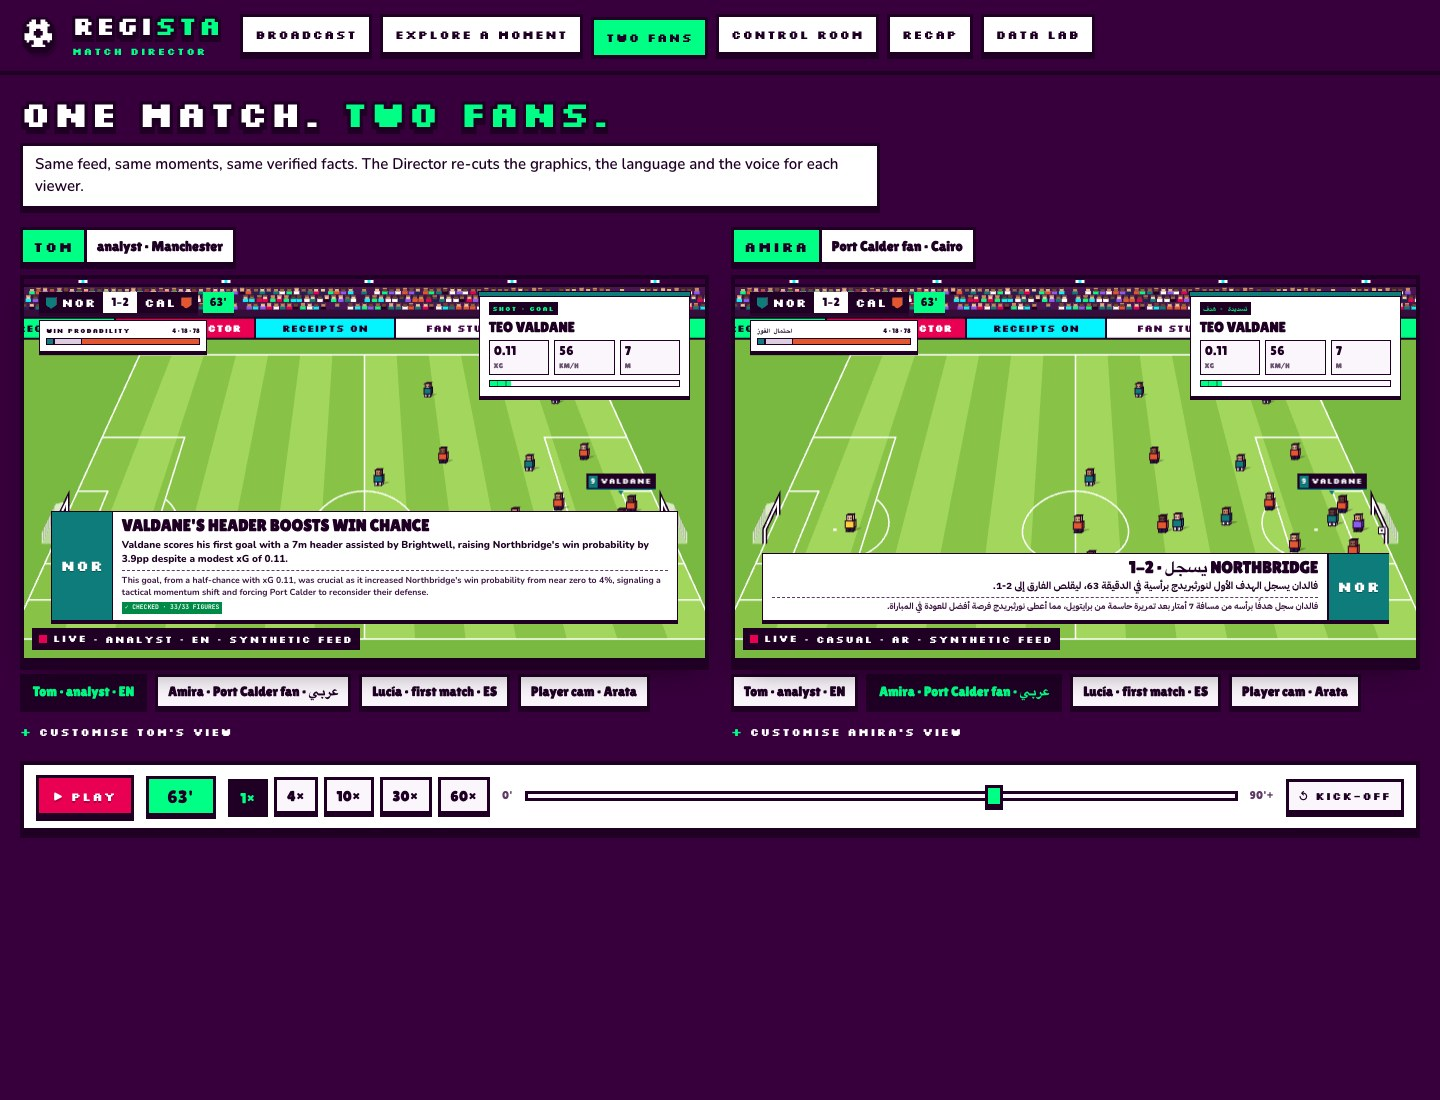
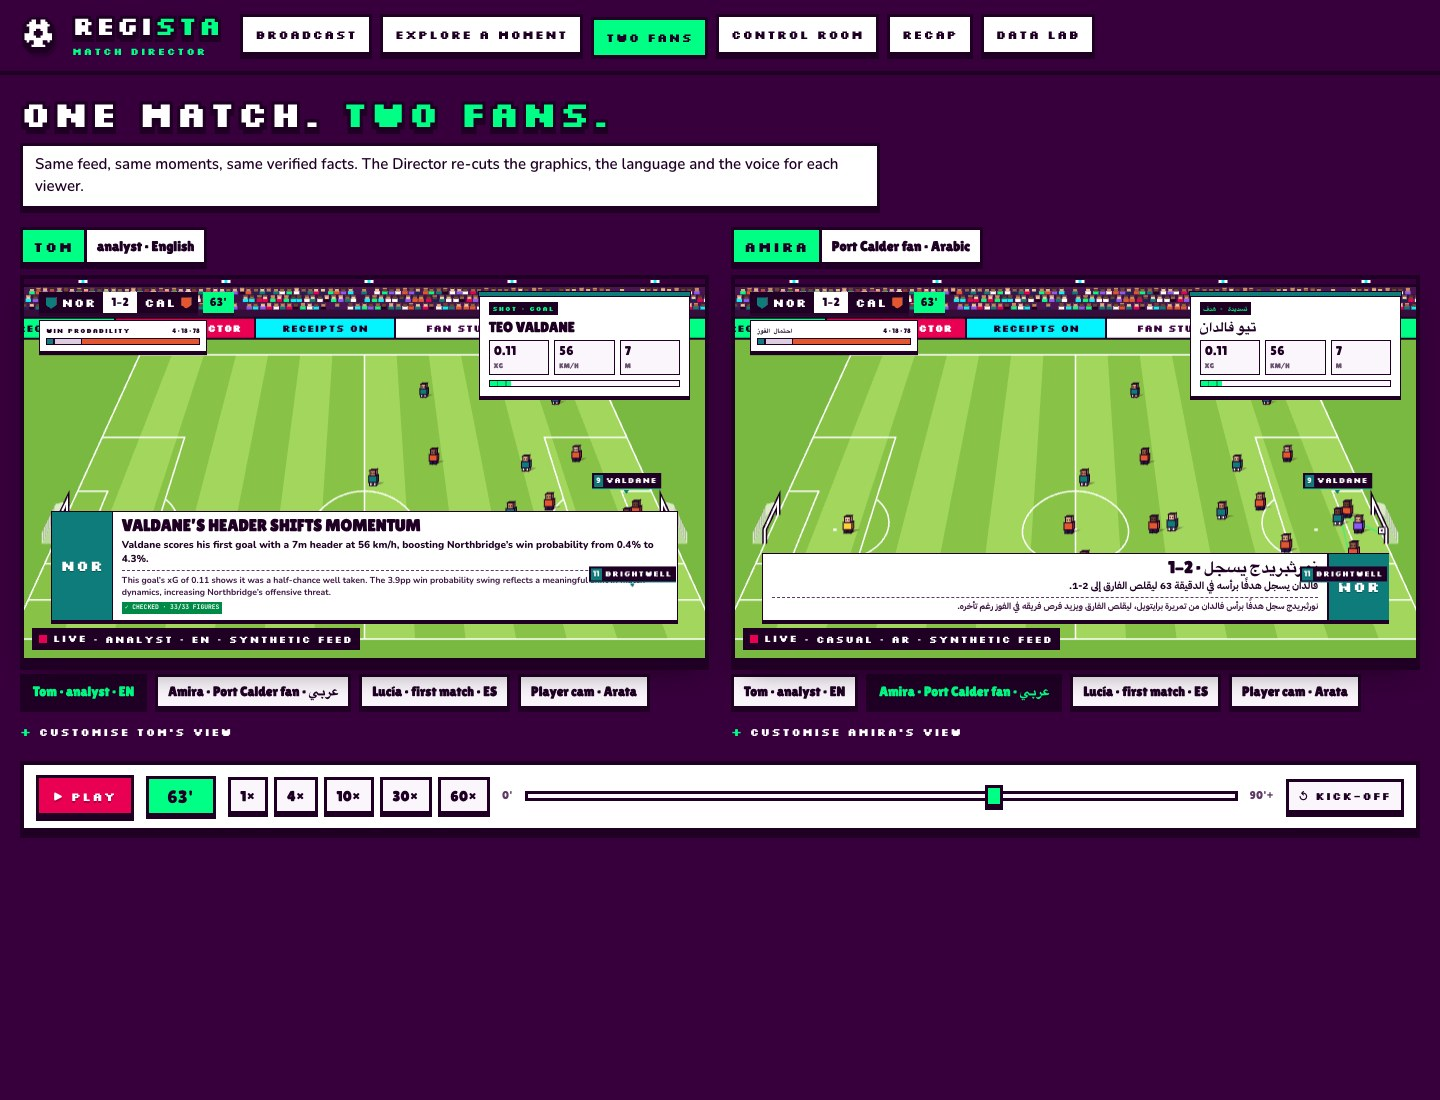
Screenshots and cover re-taken from the live site (23 Oct, revision 0000018); capture notes match
All ten docs/img screenshots and docs/media/cover.png come from the live build of bfcb014: the 63' goal with official
Arabic names, the labelled Arabic drill (rejected draft 1, passing draft 2), Two fans, the Arabic overlay, the control
room, the recap as of 63' and the data lab. The capture manifest, README and project page now say so.

diff --git a/README.md b/README.md
@@ -28,7 +28,7 @@ It is built on **Microsoft Agent Framework** (agents + workflow), runs models on
 | ![A correction receipt](docs/img/correction-receipt.jpg) | ![Amira's overlay export](docs/img/overlay-amira.jpg) |
 | **Correction receipt**: in a labelled drill a wrong goal count planted in the Arabic draft is rejected with the Verifier's exact findings and never airs; only Arabic is rewritten | **Overlay export**: Amira's Arabic browser overlay, right to left, from the Control room's export links; external switcher use requires validation |
 
-The screenshots were refreshed on 22 October from the corrected local build with Microsoft Foundry and synthetic data. [Capture provenance](docs/img/capture-manifest.json) records the displayed goal, model sources and actual correction verdicts. Publishing this build and recording the required video remain release tasks.
+The screenshots were captured on 23 October from the live site (Microsoft Foundry, synthetic data). [Capture provenance](docs/img/capture-manifest.json) records the displayed goal, model sources and actual correction verdicts. Recording the required video remains a release task.
 
 ---
 

diff --git a/docs/project-page.md b/docs/project-page.md
@@ -57,7 +57,7 @@ All teams, players, venues and fan personas are fictional. All match data is syn
 - Open for others to join: **No**, unless team preferences change.
 
 ## Media preparation
-The ten images listed in [capture-manifest.json](img/capture-manifest.json) were refreshed on 22 October from the corrected local build using Microsoft Foundry and synthetic data. They include a real rejected Arabic drill draft, its rewrite and live goal output. This records local capture, not publication of the updated demo. Do not upload old 74′/ten-men/2–1 Northbridge cards as current evidence.
+The ten images listed in [capture-manifest.json](img/capture-manifest.json) were captured on 23 October from the live site (Azure Container Apps, Microsoft Foundry gpt-4.1-mini, synthetic data). They include a real rejected Arabic drill draft and its rewrite, and the 63′ goal on air with its checked story. The cover, `docs/media/cover.png`, is composed from the same live capture. Do not upload old 74′/ten-men/2–1 Northbridge cards as current evidence.
 
 | Refreshed image | Caption |
 |---|---|
